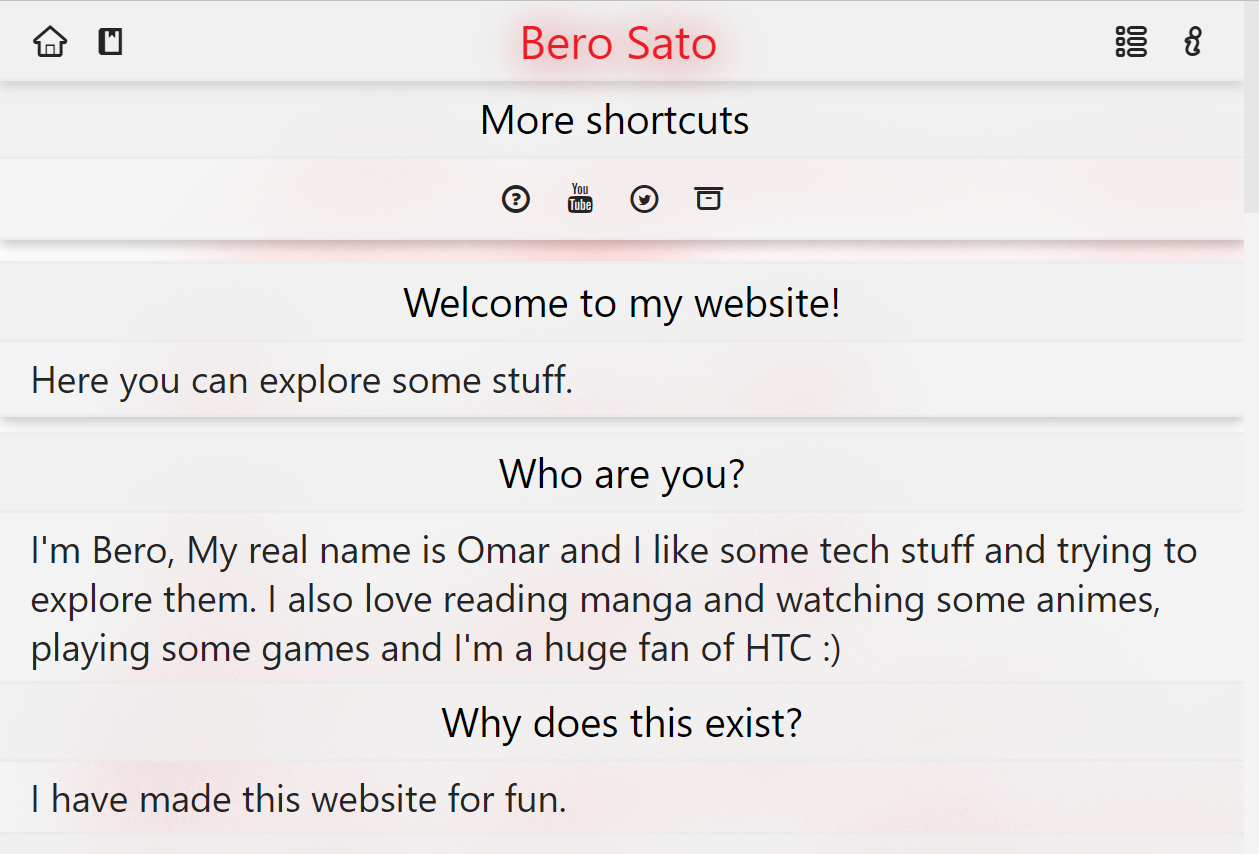
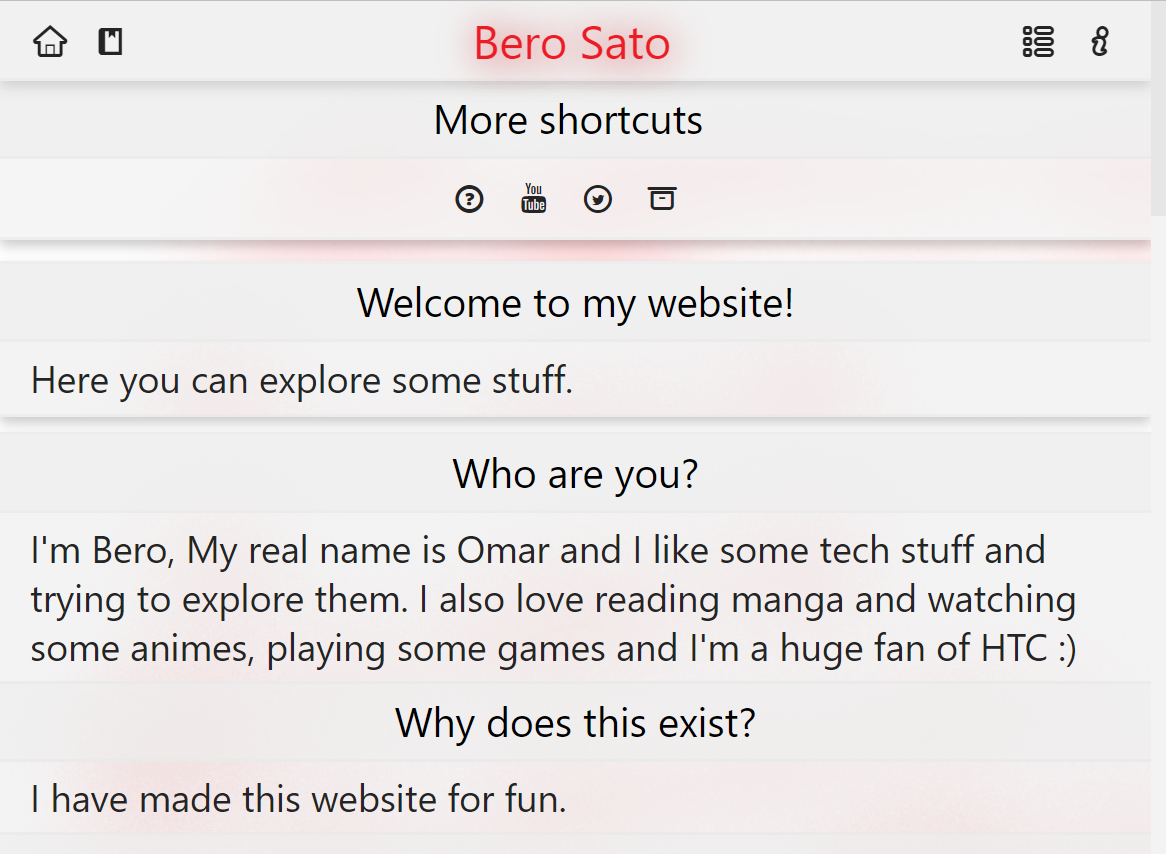
Version 3.0.5 small update
Check https://berosato.github.io/blogs#v3.0.5 updated information.

diff --git a/style5.css b/style5.css
@@ -132,7 +132,7 @@ div {
     padding-top: 4px;
     padding-bottom: 8px;
     border-bottom: 2px solid rgba(231, 231, 231, 0.5);
-    background-color: #efefefa0;
+    background-color: #edededa0;
     margin-bottom: 12px;
 }
 
@@ -144,7 +144,7 @@ div {
 }
 
 article {
-    background-color: #efefefa0;
+    background-color: #edededa0;
     color: rgb(36, 36, 36);
     border-bottom: 2px solid rgba(231, 231, 231, 0.5);
     margin-bottom: 10px;
@@ -164,6 +164,7 @@ p {
     font-size: 25px;
     text-align: left;
     padding-left: 20px;
+    padding-right: 20px;
 }
 
 #maintxt {

diff --git a/blogs.html b/blogs.html
@@ -61,7 +61,9 @@
                 <br>
                 - Updated hover and focus design
                 <br>
-                - Scrollbar track now does have a hover color.
+                - Scrollbar track now does have a hover color
+                <br>
+                - <em>New!</em> Updated the main articles texts background color in light mode.
             </p>
             <h4>Where to try?</h4>
             <p>As always, you can try it now. <a href="https://berosato.github.io">Here</a> & <a href="https:/berosato.github.io/classic">Here</a></p>

diff --git a/style3.css b/style3.css
@@ -99,7 +99,7 @@ a:focus {
 
 h1 {
     border-bottom: 2px solid rgba(231, 231, 231, 0.5);
-    background-color: #efefefa0;
+    background-color: #edededa0;
     color: black;
     margin-top: 42px;
     font-size: 70px;
@@ -138,7 +138,7 @@ p {
 footer {
     border-top: 2px solid rgba(231, 231, 231, 0.5);
     box-shadow: 0 -4px 8px 0 rgba(118, 118, 118, 0.26);
-    background-color: #efefefa0;
+    background-color: #edededa0;
     color: rgb(36, 36, 36);
     font-size: 28px;
     animation: startupa 1s 1;

diff --git a/index.html b/index.html
@@ -92,7 +92,7 @@
                 <p>Made with: <b id="btxt">HTML, CSS and Paint 3D</b></p>
                 <p>Font: <b id="btxt">Segoe UI by Steve Matteson</b></p>
                 <p>Icons: <b id="btxt">By Typicons, Iconic, MFG Labs and Font Awesome. (Generated using Fontello)</b></p>
-                <p id="modtxt">Last modifed: <b id="btxt">5/7/2022</b></p>
+                <p id="modtxt">Last modifed: <b id="btxt">5/19/2022</b></p>
             </article>
         </section>
     </main>

diff --git a/style2.css b/style2.css
@@ -122,7 +122,7 @@ p > a {
 
 h1 {
     font-size: 30px;
-    background-color: #efefefa0;
+    background-color: #edededa0;
     border-bottom: 2px solid rgba(231, 231, 231, 0.5);
     color: black;
     background-repeat: no-repeat;
@@ -229,7 +229,7 @@ footer {
     padding-top: 4px;
     padding-bottom: 8px;
     border-bottom: 2px solid rgba(231, 231, 231, 0.5);
-    background-color: #efefefa0;
+    background-color: #edededa0;
     margin-bottom: 12px;
 }
 

diff --git a/style.css b/style.css
@@ -130,7 +130,7 @@ div {
     padding-top: 4px;
     padding-bottom: 8px;
     border-bottom: 2px solid rgba(231, 231, 231, 0.5);
-    background-color: #efefefa0;
+    background-color: #edededa0;
     margin-bottom: 12px;
 }
 
@@ -213,7 +213,7 @@ h2 {
     font-weight: initial;
     color: black;
     border-bottom: 2px solid rgba(231, 231, 231, 0.5);
-    background-color: #efefefa0;
+    background-color: #edededa0;
 }
 
 #firstqna {

diff --git a/style6.css b/style6.css
@@ -133,7 +133,7 @@ div {
     padding-top: 4px;
     padding-bottom: 8px;
     border-bottom: 2px solid rgba(231, 231, 231, 0.5);
-    background-color: #efefefa0;
+    background-color: #edededa0;
     margin-bottom: 12px;
 }
 
@@ -148,7 +148,7 @@ h2 {
     font-weight: initial;
     color: black;
     border-bottom: 2px solid rgba(231, 231, 231, 0.5);
-    background-color: #efefefa0;
+    background-color: #edededa0;
 }
 
 #maintxt {
